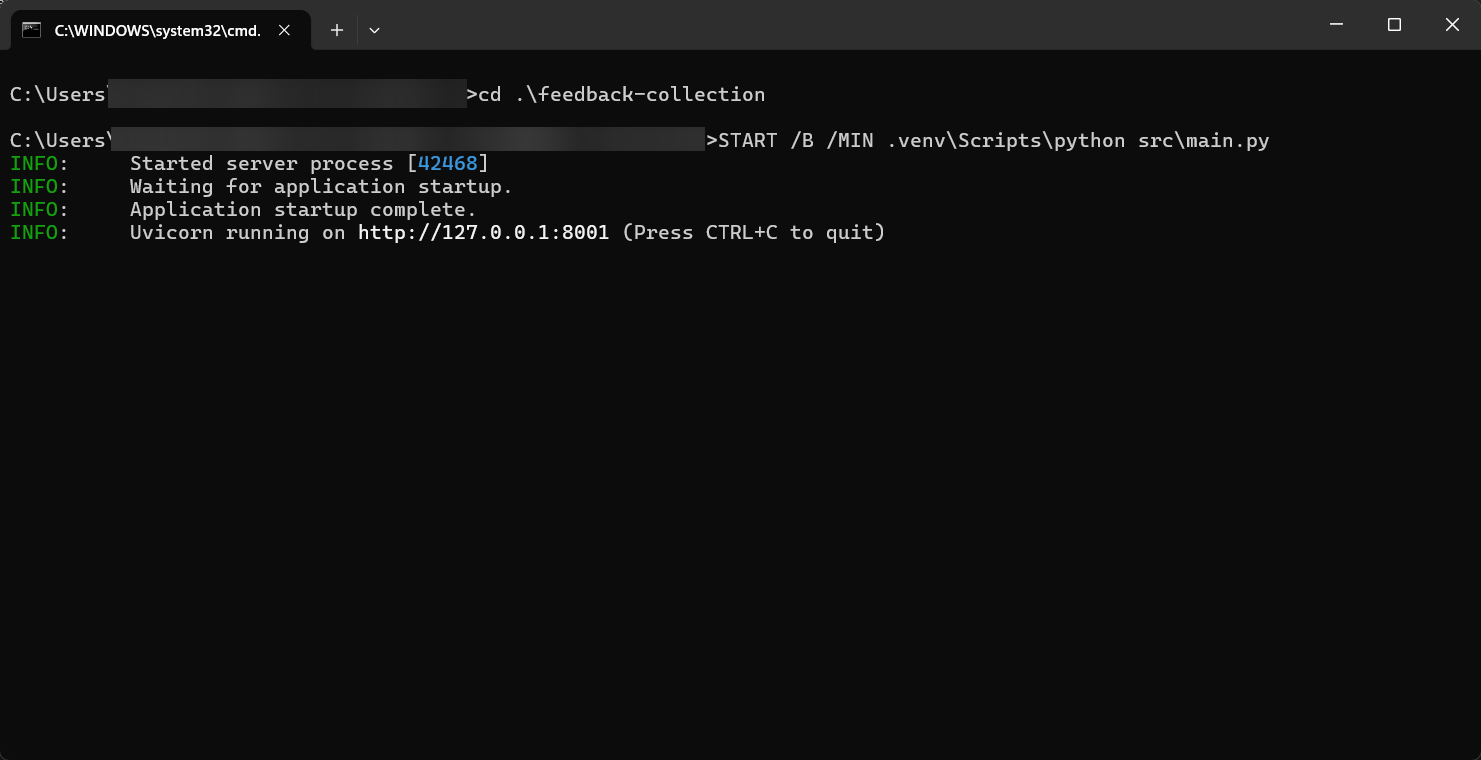
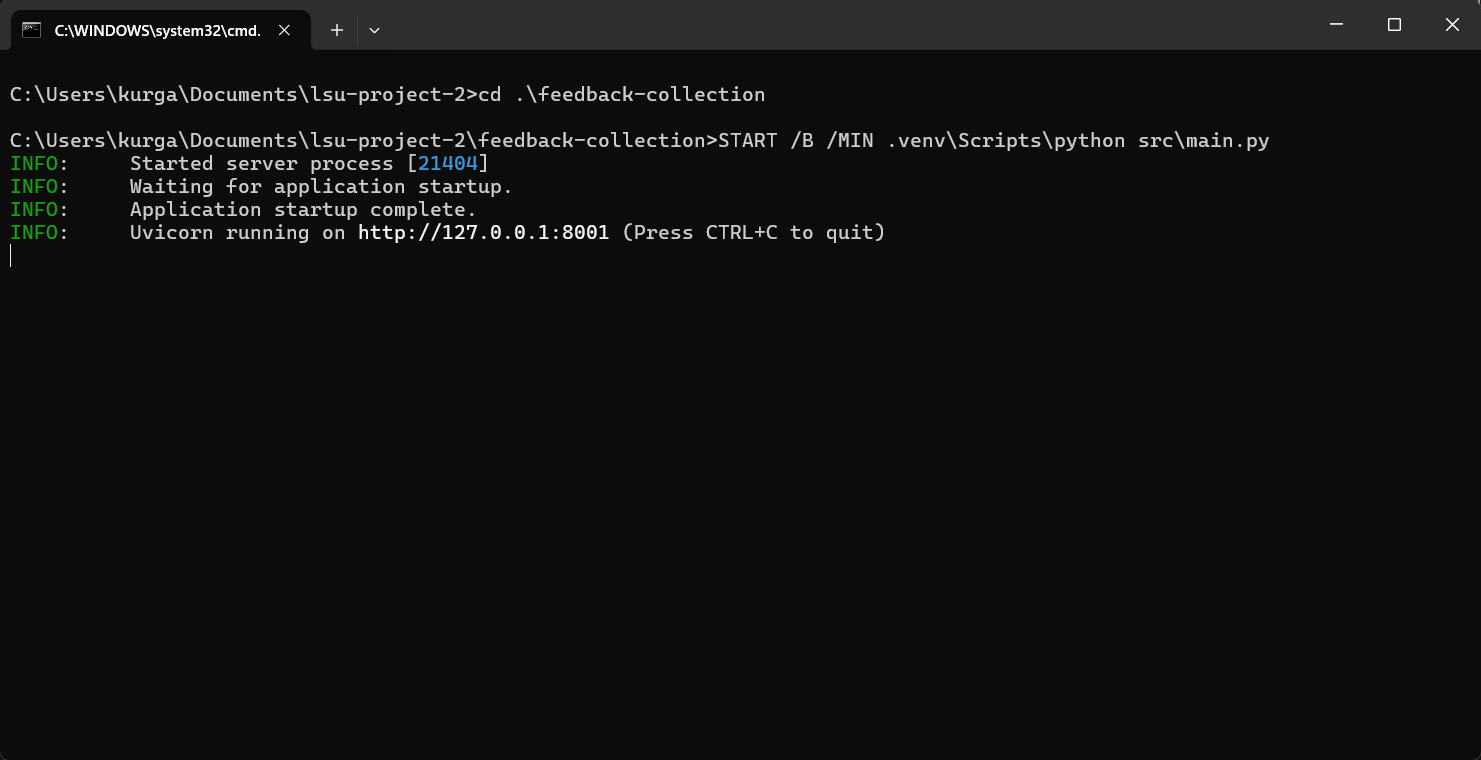
add: user lock check (and error message) and localserver cmd clarification in pre-session checks

Changed region(s): [[0.0621, 0.0908, 0.497, 0.2421]]

diff --git a/src/features/pre-session-checks/components/PreSessionChecks.tsx b/src/features/pre-session-checks/components/PreSessionChecks.tsx
@@ -17,6 +17,8 @@ import axios, { AxiosError } from "axios";
 import { useAuth } from "@/hooks/auth";
 import { cn } from "@/lib/utils";
 import { Session } from "@/features/session-execution/services/sessionExecutionService";
+import { toast } from "react-toastify";
+import iamService from "@/services/iam";
 
 import {
   Dialog,
@@ -189,7 +191,7 @@ export function PreSessionChecks({ completedCallback, session }: PreSessionCheck
   const [showFeedbackSystemFix, setShowFeedbackSystemFix] = useState(false);
   const [savedGoalPercentage, setSavedGoalPercentage] = useState<number | undefined>(undefined);
 
-  const { initializeLocalServer } = useAuth();
+  const { initializeLocalServer, authState } = useAuth();
 
   const pingLocalServer = useCallback(async () => {
     setIsPingingLocal(true);
@@ -277,13 +279,23 @@ export function PreSessionChecks({ completedCallback, session }: PreSessionCheck
   return (
     <>
       <Button
-        onClick={() => {
+        onClick={async () => {
           // If a tab has the autoclose parameter to mark a session as moved, 
           // they get redirected to base path before beginning a new session to prevent issues
           if (new URLSearchParams(window.location.search).get('autoclose') === 'true') {
             window.location.href = window.location.origin + window.location.pathname;
             return;
           }
+          
+          const username = authState.session?.user.username;
+          if (username) {
+            const isLocked = await iamService.isUserLocked(username);
+            if (isLocked) {
+              toast.error("Please contact mcost16@lsu.edu with any questions. The feedback count in your last session was unusually low. Your account has been locked until the issue can be resolved by study coordinators.");
+              return;
+            }
+          }
+          
           dispatch({ type: "RESET" });
           setDialogIsOpen(true);
         }}
@@ -313,6 +325,21 @@ export function PreSessionChecks({ completedCallback, session }: PreSessionCheck
                     <span className="text-yellow-500 font-bold">Please ensure {session?.has_feedback ? 'all systems' : 'both the server and app'} are running. </span>
                     Refer to the indicators below for guidance.
                   </AlertDialogDescription>
+                  
+                  <div className="flex flex-col gap-4">
+                    <div className="flex justify-center">
+                      <img
+                        className="rounded-md shadow max-w-full"
+                        src="/cmd.png"
+                        alt="Command Prompt Window"
+                      />
+                    </div>
+                    <AlertDialogDescription className="text-center text-yellow-500 font-semibold">
+                      This is what the window looks like when the local server is running. 
+                      <span className="text-red-500"> Do NOT close this window during your session.</span>
+                    </AlertDialogDescription>
+                  </div>
+
                   <div className="flex items-center justify-between">
                     <div className="flex items-center gap-3">
                       <span className={cn("w-3 h-3 rounded-full", localServerIsWorking ? "bg-green-600" : "bg-red-600")}></span>

diff --git a/src/services/iam.ts b/src/services/iam.ts
@@ -65,6 +65,18 @@ class IamService {
         return response.data;
     }
 
+    public async isUserLocked(username: string): Promise<boolean> {
+        const response = await api.get(`/iam/user/${username}/locked`);
+        return response.data;
+    }
+
+    public async getLockedStatuses(usernames: string[]): Promise<Record<string, boolean>> {
+        const response = await api.get(`/iam/users/locked`, {
+            params: { usernames }
+        });
+        return response.data;
+    }
+
     // private async updateLocalServer() {
     //     while (!this.localServerUpToDate) {
     //         try {
